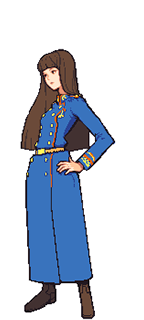
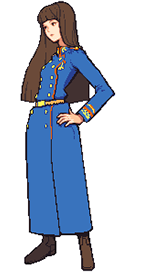
Tweak and fix CO images, minor bug fixes
### Minor bug fix
If you pass your turn without making a move, the server would crash because there would be no array called unitsToRefresh.

### CO images
Some CO images had empty space at the top, making them display empty space. I manually went and cut all empty space so now all COs display correctly, also made sure to make them all face left so when we rotate a CO, they always face each other and we dont have awkward posing.

### NameCO.sass and currentPlayer.sass
Both changed to accept background images rather than img tags. This is simply done because webpack is kinda having issues accepting dynamic img setting (example: src={`../images/CO/${COName}-Full.png`} because webpack changes all images to 12h3g12ujh4gejhg2.png or similar and then react cant find Sami-Full.png anymore. Instead if we do it in SASS via loop, it does get saved since we do specify each classname and specific image and webpack can work with that.

Changed region(s): [[0.1389, 0.0, 0.8056, 1.0]]

diff --git a/client/public/style/currentPlayer.sass b/client/public/style/currentPlayer.sass
@@ -2,9 +2,16 @@
 $player2-color: linear-gradient(90.04deg, rgba(0, 0, 0, 0) 0.08%, #2342BA 72.38%, #0E1A47 95.82%)
 $player1-color: linear-gradient( 270.04deg, rgba(0, 0, 0, 0) 0.08%, #E61F1F 79.61%, #470E0E 99.23%)
 @import url('https://fonts.googleapis.com/css2?family=VT323&display=swap')
-div
-    // border: 1px solid black    
+$CO-Names: Andy, Hachi, Jake, Max, Nell, Rachel, Sami, Colin, Grit, Olaf, Sasha, Drake, Eagle, Javier, Jess, Grimm, Kanbei, Sensei, Sonja, Adder, Flak, Hawke, Jugger, Kindle, Koal, Lash, Sturm, Bolt
 
+@each $CO in $CO-Names
+    .#{$CO}Player
+
+        @if $CO == 'Bolt'
+            background: url("../images/CO/Von Bolt-Full.png") no-repeat
+        @else
+            background: url("../images/CO/#{$CO}-Full.png") no-repeat
+        background-position: top right
 
 .current-player
     // background: #eee
@@ -27,27 +34,20 @@ div
         // grid-template-columns: 1fr 1fr
 
         .character-image-orange
-            min-width: 25%
-            width: 25%
-            max-width: 25%
-            object-position: 100% 0%
+            width: 100%
+            left: 0
             height: 100%
-            max-height: 100%
             position: absolute
             z-index: 1
-
             transform: scaleX(-1)
-
         .character-image-blue
-            min-width: 25%
-            width: 25%
-            max-width: 25%
-            object-position: 100% 0%
+            width: 100%
+            top: 0
             height: 100%
-            max-height: 100%
             position: absolute
-            right: 0
             z-index: 1
+
+
 
             
         .character-background-blue

diff --git a/client/public/components/gameInterface/NameCO.js b/client/public/components/gameInterface/NameCO.js
@@ -1,6 +1,7 @@
 import React from "react";
 import { NameBanner } from "./NameBanner";
 import '../../style/gameInterface/NameCO.sass'
+import '../../style/currentPlayer.sass'
 
 export const NameCO = ({
   name = "name",
@@ -10,18 +11,17 @@ export const NameCO = ({
 }) => {
   return (
     <div className={`NameCO playerNumber${playerNumber}`}>
-      {/* If the character pulled from the database if empty(""), replace with sturm. */}
+      {/* If the character pulled from the database if empty(""), replace with Rachel. */}
       { character == "" ? <img
         className="NameCOImage"
-        src={`../../images/CO/Sturm-Full.png`}
+        src={`../../images/CO/Rachel-Full.png`}
         alt={`character ${playerNumber}`}
         style={{ filter: "brightness(0%)" }}
       /> :
-      <img
-        className="NameCOImage"
-        src={`../../images/CO/${character}-Full.png`}
-        alt={`character ${playerNumber}`}
-      />}
+      <div
+        className={`NameCOImage ${character}Player`}
+        //src={`../../images/CO/${character}-Full.png`}
+        alt={`character ${playerNumber}`}> </div>}
       <NameBanner name={name} color={color} />
     </div>
   );

diff --git a/client/public/style/gameGrid/unitGrid.sass b/client/public/style/gameGrid/unitGrid.sass
@@ -136,53 +136,17 @@ $countryName: orangeStar, blueMoon
   .tileUnit
     filter: brightness(0.65)
 
-
-
-//let our units be displayed correctly in the battlefield/grid
-//@each $country in $countryName
-  @each $unit in $imageName
-    .#{$country}#{$unit}
-      background: url("images/units/#{$country}/#{$unit}-0.png") no-repeat
-      background-size: contain
-      position: absolute
-      z-index: 9
-      bottom: 0px
-      height: 32px
-      width: 32px
-      image-rendering: pixelated
-
-
-
-
-
-
 h1
   padding: 0.5em
 
-
-
-
-
-//.playerBoxGrid
-  position: absolute
-  top: 0
-  left: 0px
-  display: grid
-  grid-template-columns: max-content max-content min-content
-  justify-content: left
-  justify-items: left
-  z-index: 1000
-  color: variables.$text-main
-  gap: 4em
 .playerBox
   width: 100%
-
   z-index: 25
 
 .activePlayer
-  filter: brightness(1.2) contrast(1.1)
+  filter: brightness(1.1) contrast(1.05)
 .inactivePlayer
-  filter: brightness(0.8) contrast(0.7)
+  filter: brightness(0.8) contrast(0.8)
 
 .gameTitle
   color: variables.$text-main

diff --git a/client/public/components/grid/ParsedMap.js b/client/public/components/grid/ParsedMap.js
@@ -585,7 +585,7 @@ export function ParsedMap() {
             <div className={`playerBox ${playerState.turn === 0 ? "activePlayer" : "inactivePlayer"}`}>
 
                 <CurrentPlayer
-                    selectedCharacter={players[countriesOrder[0]].img}
+                    selectedCharacter={players[countriesOrder[0]].CO}
                     userName={players[countriesOrder[0]].username}
                     bannerColor={players[countriesOrder[0]].color}
                     timePlayed={players[countriesOrder[0]].timePlayed}
@@ -604,7 +604,7 @@ export function ParsedMap() {
 
             <div className={`playerBox ${playerState.turn === 1 ? "activePlayer" : "inactivePlayer"}`}>
                 <CurrentPlayer
-                    selectedCharacter={players[countriesOrder[1]].img}
+                    selectedCharacter={players[countriesOrder[1]].CO}
                     userName={players[countriesOrder[1]].username}
                     bannerColor={players[countriesOrder[1]].color}
                     timePlayed={players[countriesOrder[1]].timePlayed}

diff --git a/server/database/gameActions.js b/server/database/gameActions.js
@@ -65,11 +65,14 @@ router.post("/passTheTurn", async (req, res) => {
     let {unitsToRefresh, turn, day, orangeStar, blueMoon} = req.body
     const query = {"_id": 0}
     //lets free every used unit
-    unitsToRefresh.forEach(tileIndex => {
-        let unit = `gameState.${tileIndex}.tileUnit.isUsed`
-        let refresh = {$set: {[unit]: false}};
-        collection.updateOne(query, refresh);
-    })
+    if (unitsToRefresh) {
+        unitsToRefresh.forEach(tileIndex => {
+            let unit = `gameState.${tileIndex}.tileUnit.isUsed`
+            let refresh = {$set: {[unit]: false}};
+            collection.updateOne(query, refresh);
+        })
+    }
+
 
     //lets update our playerstate
     collection.updateOne(query, {$set: {playerState: req.body }});

diff --git a/client/public/components/CurrentPlayer.js b/client/public/components/CurrentPlayer.js
@@ -20,7 +20,7 @@ export const CurrentPlayer = ({
                               }) => {
     return (<div className="current-player">
             <div className="current-player-header">
-                <img className={`character-image-${bannerColor}`} src={selectedCharacter}/>
+                <div className={`character-image-${bannerColor} ${selectedCharacter}Player`}></div>
                 <div className={`character-background-${bannerColor}`}></div>
             </div>
             <div className="player-name">

diff --git a/client/public/style/gameInterface/NameCO.sass b/client/public/style/gameInterface/NameCO.sass
@@ -7,12 +7,16 @@
 .NameCOImage
   width: 136px
   height: 136px
-  object-position: 100% 0
+  //object-position: 100% 0
   filter: drop-shadow(8px 0 1px rgba(0, 0, 0, 0.5))
 
+
+
+
 .playerNumber1
-  img
-    @include variables.img-hor-flip()
+  .NameCOImage
+    transform: scaleX(-1)
+    align-items: flex-start
 
 .playerNumber2
   align-items: flex-end

diff --git a/client/public/style/GameEntry.sass b/client/public/style/GameEntry.sass
@@ -1,7 +1,8 @@
 @use 'abstracts/variables' as variables
 
 .currentGame:hover
-  filter: brightness(0.85)
+  filter:  contrast(1.15)
+  transform: scale(1.025)
 
 .currentGame
   transition: variables.$transition
